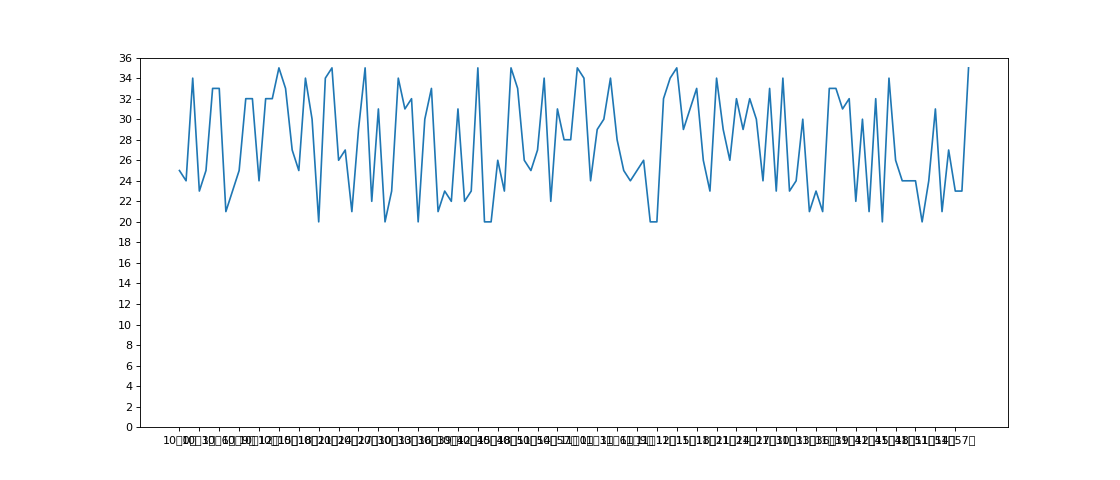
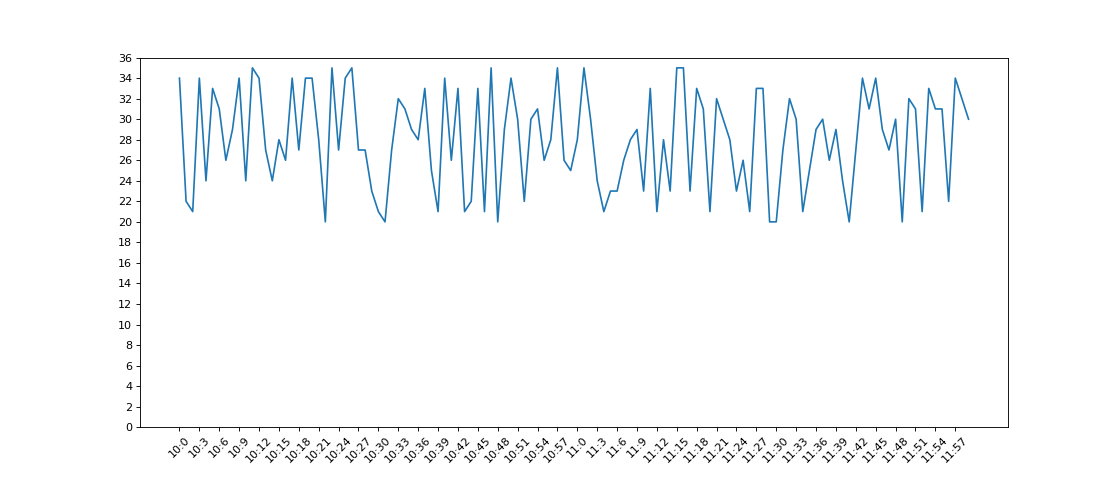
update

Changed region(s): [[0.1562, 0.125, 0.875, 0.4688], [0.125, 0.9062, 0.875, 0.9688]]

diff --git a/python_module/numpy/6_.py b/python_module/numpy/6_.py
@@ -1,0 +1,24 @@
+import numpy as np
+
+# nanを各列の平均値に変換する関数
+def fill_ndarray(t1):
+    for i in range(t1.shape[1]):
+        temp_col = t1[:,i]
+        nan_num = np.count_nonzero(temp_col != temp_col)
+        if nan_num != 0:
+            temp_not_nan_col = temp_col[temp_col == temp_col]
+            temp_col[temp_col!=temp_col] = temp_not_nan_col.mean()
+    return t1
+
+if __name__ == '__main__':
+    t1 = np.arange(12).reshape((3,4)).astype("float")
+    t1[1,2:] = np.nan
+    print(t1)
+    """
+    [[ 0.  1.  2.  3.]
+    [ 4.  5. nan nan]
+    [ 8.  9. 10. 11.]]
+    """
+    
+    t1 = fill_ndarray(t1)
+    print(t1)

diff --git a/python_module/matplotlib/2_practice.py b/python_module/matplotlib/2_practice.py
@@ -9,13 +9,17 @@ plt.figure(figsize=(14,6), dpi=80)
 plt.plot(x,y)
 
 _x = list(x)
-_xticks_labels = ["10時{}分".format(i) for i in range(60)]
-_xticks_labels += ["11時{}分".format(i) for i in range(60)]
+_xticks_labels = ["10:{}".format(i) for i in range(60)]
+_xticks_labels += ["11:{}".format(i) for i in range(60)]
 
-plt.xticks(_x[::3], _xticks_labels[::3])
+plt.xticks(_x[::3], _xticks_labels[::3],rotation=45)
 plt.yticks(range(0,max(y)+2,2))
 
-plt.savefig("./t2.png")
+# plt.savefig("./t2.png")
+
+plt.xlabel('times')
+plt.ylabel('temperature')
+plt.title('temperature of 10-12')
 
 plt.show()
 

diff --git a/python_module/numpy/3_.py b/python_module/numpy/3_.py
@@ -1,0 +1,20 @@
+import numpy as np
+
+us_file_path = './files/usa.csv'
+uk_file_path = './files/uk.csv'
+
+# t1 = np.loadtxt(us_file_path, delimiter=',',dtype='int',unpack=True)  # unpack=True 倒置関数になる
+t2 = np.loadtxt(us_file_path, delimiter=',',dtype='int')
+# print(t1)
+# print('-'*100)
+print(t2)
+print('-'*100)
+# print(t2[2])
+# print(t2[[2,8,10]])    # 複数行を取り出す
+
+# print(t2[1,1:])
+# print(t2[:,0])
+# print(t2[:,[1,3]])
+# print(t2[2,3])
+# print(t2[3:6,2:5])
+# print(t2[[0,2],[0,1]])

diff --git a/python_module/numpy/1_.py b/python_module/numpy/1_.py
@@ -1,0 +1,32 @@
+import numpy as np
+import random
+
+t1 = np.array([1,2,3])
+print(t1)
+print(type(t1))
+
+t2 = np.array(range(10))
+print(t2)
+
+t3 = np.arange(4,10,2)
+print(t3)
+print(t3.dtype)
+
+t4 = np.array(range(0,4), dtype=float)
+print(t4)
+print(t4.dtype)
+
+t5 = np.array([0,1,1,0,1], dtype=bool)
+print(t5)
+print(t5.dtype)
+
+t6 = t5.astype('int8')
+print(t6)
+print(t6.dtype)
+
+t7 = np.array([random.random() for i in range(10)])
+print(t7)
+print(t7.dtype)
+
+t8 = np.round(t7, 3)
+print(t8)

diff --git a/python_module/numpy/7_.py b/python_module/numpy/7_.py
@@ -1,0 +1,16 @@
+import numpy as np
+
+uk_path = './files/uk.csv'
+us_path = './files/usa.csv'
+
+us_data = np.loadtxt(us_path, delimiter=',', dtype=int)
+uk_data = np.loadtxt(uk_path, delimiter=',', dtype=int)
+
+zeros_data = np.zeros((us_data.shape[0],1)).astype(int)
+ones_data = np.ones((uk_data.shape[0],1)).astype(int)
+
+us_data = np.hstack((us_data, zeros_data))
+uk_data = np.hstack((uk_data, ones_data))
+
+final_data = np.vstack((us_data,uk_data))
+print(final_data)

diff --git a/python_module/numpy/5_.py b/python_module/numpy/5_.py
@@ -1,0 +1,26 @@
+import numpy as np
+
+t = np.arange(24).reshape(4,6)
+# print(t)
+
+t[:,0] = 0
+# print(t)
+# print(np.count_nonzero(t))
+
+t = t.astype(float)
+t[3,3] = np.nan
+# print(t)
+# print(t != t)
+# print(np.count_nonzero(t!=t))
+
+# print(np.isnan(t))
+# print(np.count_nonzero(np.isnan(t)))
+
+# print(np.sum(t))
+
+t2 = np.arange(24).reshape(4,6)
+# print(t2)
+# print(np.sum(t2))
+# print(t2.sum())
+# print(np.sum(t2, axis=0))
+# print(np.sum(t2, axis=1))

diff --git a/python_module/matplotlib/3_practice.py b/python_module/matplotlib/3_practice.py
@@ -1,0 +1,21 @@
+import matplotlib.pyplot as plt
+
+y_1 = [1,0,1,1,2,4,3,2,3,4,4,5,6,5,4,3,3,1,1,1]
+y_2 = [1,0,3,1,2,2,3,3,2,1,2,1,1,1,1,1,1,1,1,1]
+x = range(11,31)
+
+plt.figure(figsize=(14,6), dpi=80)
+
+_xticks_label = ["{}y".format(i) for i in x]
+
+plt.xticks(x,_xticks_label)
+plt.yticks(range(9))
+
+plt.plot(x,y_1,label='Jerry')
+plt.plot(x,y_2,label='Tom')
+
+plt.grid(alpha = 0.4)
+
+plt.legend(loc=2)
+
+plt.show()

diff --git a/python_module/numpy/2_.py b/python_module/numpy/2_.py
@@ -1,0 +1,19 @@
+import numpy as np
+
+t1 = np.array(range(24))
+
+t2 = t1.reshape((4,6))
+# print(t2)
+# print(t2+2)
+
+t3 = np.arange(100,124).reshape((4,6))
+# print(t3)
+# print(t2+t3)
+
+t4 = np.arange(6)
+# print(t3-t4)
+
+t5 = np.arange(24).reshape(4,6)
+# print(t5)
+# print(t5.transpose())     # 倒置関数
+# print(t5.T)                 # 倒置関数

diff --git a/python_module/numpy/8_.py b/python_module/numpy/8_.py
@@ -1,0 +1,16 @@
+import numpy as np
+
+t = np.eye(4)
+
+# print(t)
+
+# argmax:最大値のインデックス  argmin:最小値のインデックス
+# print(np.argmax(t, axis=0))
+# print(np.argmin(t, axis=1))
+
+# print(np.random.randint(10,20))
+# print(np.random.randint(10,20,(3,4)))
+
+t2 = t.copy()
+print(t2)
+

diff --git a/python_module/numpy/4_.py b/python_module/numpy/4_.py
@@ -1,0 +1,15 @@
+import numpy as np
+
+t = np.arange(24).reshape((4,6))
+print(t)
+print('-'*50)
+
+# print(t[t<10])
+# print('-'*50)
+
+# t[t<10] = 0
+# print(t)
+
+# print(np.where(t<10,0,100))
+
+print(t.clip(10,18))
